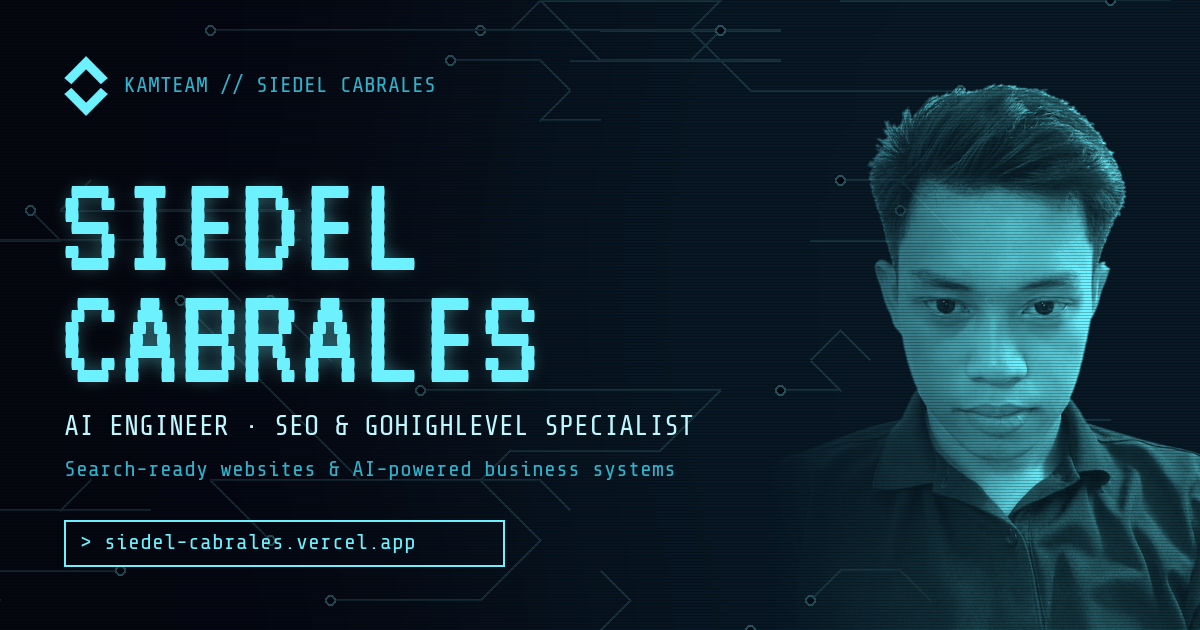
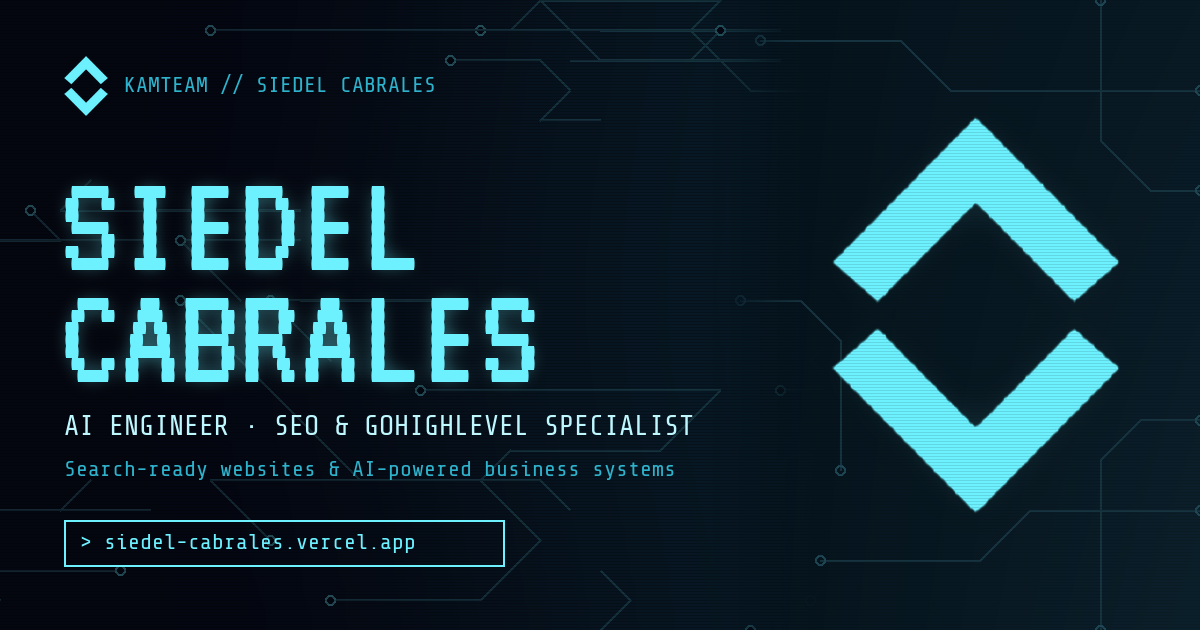
Update Leadly

diff --git a/Personal WEbsite/index.html b/Personal WEbsite/index.html
@@ -22,16 +22,16 @@
 <meta property="og:url" content="https://siedel-cabrales.vercel.app/">
 <meta property="og:title" content="Siedel Cabrales | AI Engineer, SEO &amp; GoHighLevel Specialist">
 <meta property="og:description" content="Freelance AI engineer, SEO and GoHighLevel specialist building search-ready websites and AI-powered business systems.">
-<meta property="og:image" content="https://siedel-cabrales.vercel.app/assets/og-image.png">
+<meta property="og:image" content="https://siedel-cabrales.vercel.app/assets/og-image.png?v=2">
 <meta property="og:image:width" content="1200">
 <meta property="og:image:height" content="630">
-<meta property="og:image:alt" content="Siedel Cabrales — AI Engineer, SEO &amp; GoHighLevel Specialist, in cyan CRT terminal style">
+<meta property="og:image:alt" content="Siedel Cabrales — AI Engineer, SEO &amp; GoHighLevel Specialist, with the KAMTEAM logo, in cyan CRT terminal style">
 <meta property="profile:first_name" content="Siedel">
 <meta property="profile:last_name" content="Cabrales">
 <meta name="twitter:card" content="summary_large_image">
 <meta name="twitter:title" content="Siedel Cabrales | AI Engineer, SEO &amp; GoHighLevel Specialist">
 <meta name="twitter:description" content="Freelance AI engineer, SEO and GoHighLevel specialist building search-ready websites and AI-powered business systems.">
-<meta name="twitter:image" content="https://siedel-cabrales.vercel.app/assets/og-image.png">
+<meta name="twitter:image" content="https://siedel-cabrales.vercel.app/assets/og-image.png?v=2">
 <meta name="twitter:image:alt" content="Siedel Cabrales — AI Engineer, SEO &amp; GoHighLevel Specialist">
 <meta name="theme-color" content="#040610">
 <script type="application/ld+json">
@@ -43,7 +43,7 @@
   "name": "Siedel Cabrales | AI Engineer, SEO & GoHighLevel Specialist",
   "inLanguage": "en",
   "dateModified": "2026-11-14",
-  "primaryImageOfPage": "https://siedel-cabrales.vercel.app/assets/og-image.png",
+  "primaryImageOfPage": "https://siedel-cabrales.vercel.app/assets/og-image.png?v=2",
   "mainEntity": {
     "@type": "Person",
     "@id": "https://siedel-cabrales.vercel.app/#person",
@@ -54,7 +54,7 @@
     "jobTitle": "AI Engineer, SEO & GoHighLevel Specialist",
     "description": "Freelance AI engineer, SEO and GoHighLevel specialist building search-ready websites and AI-powered business systems.",
     "url": "https://siedel-cabrales.vercel.app/",
-    "image": "https://siedel-cabrales.vercel.app/assets/og-image.png",
+    "image": "https://siedel-cabrales.vercel.app/assets/og-image.png?v=2",
     "email": "mailto:siedel.cabrales@proton.me",
     "affiliation": { "@type": "Organization", "name": "KAM Team" },
     "knowsAbout": [
